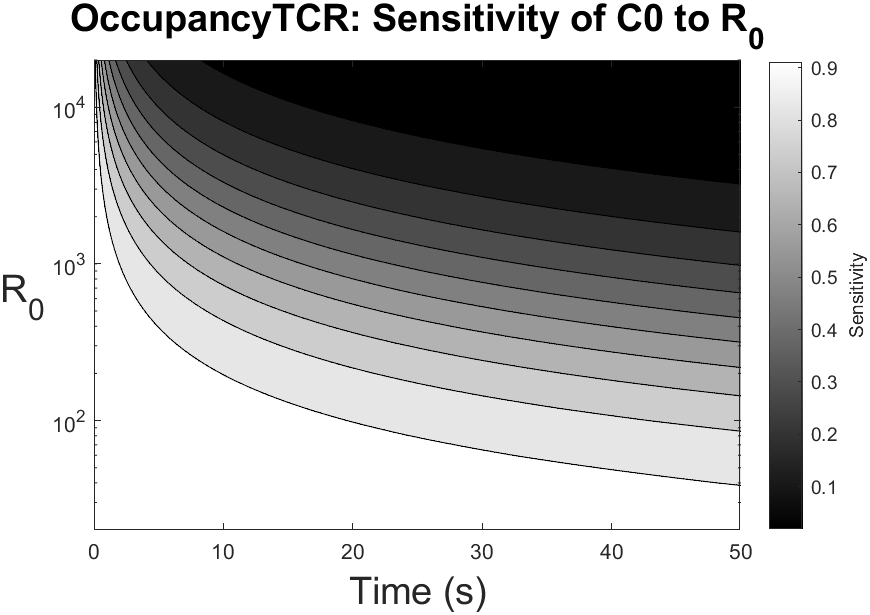
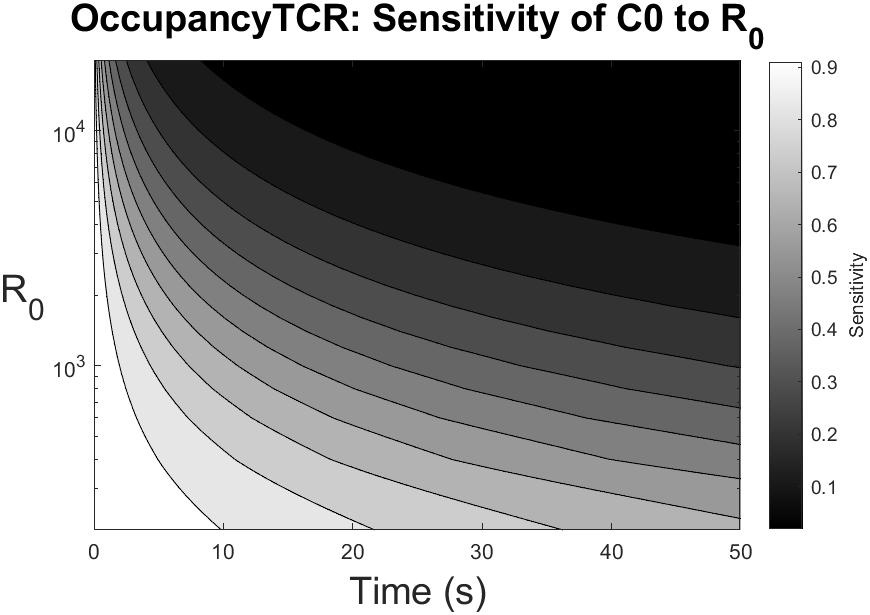
Use IC range type 3 and update results
Change model.range_typeICs from 2 to 3 in v.6/models/OccupancyTCR_options.m to alter how initial condition ranges are interpreted. Regenerated result images in v.6/results/SensitivityICs_Images_OccupancyTCR_gray and updated run_options_ICs.txt to reflect the adjusted sensitivity iterations (1000 -> 101).

diff --git a/v.6/models/OccupancyTCR_options.m b/v.6/models/OccupancyTCR_options.m
@@ -47,7 +47,7 @@ model.x0 = [0, 100, 2e4];
 model.state_names = {'C0', 'L', 'R'};
 model.ICs_ranges = [0 2e4];
 
-model.range_typeICs = 2;
+model.range_typeICs = 3;
 
 if model.range_typeICs == 1
 
